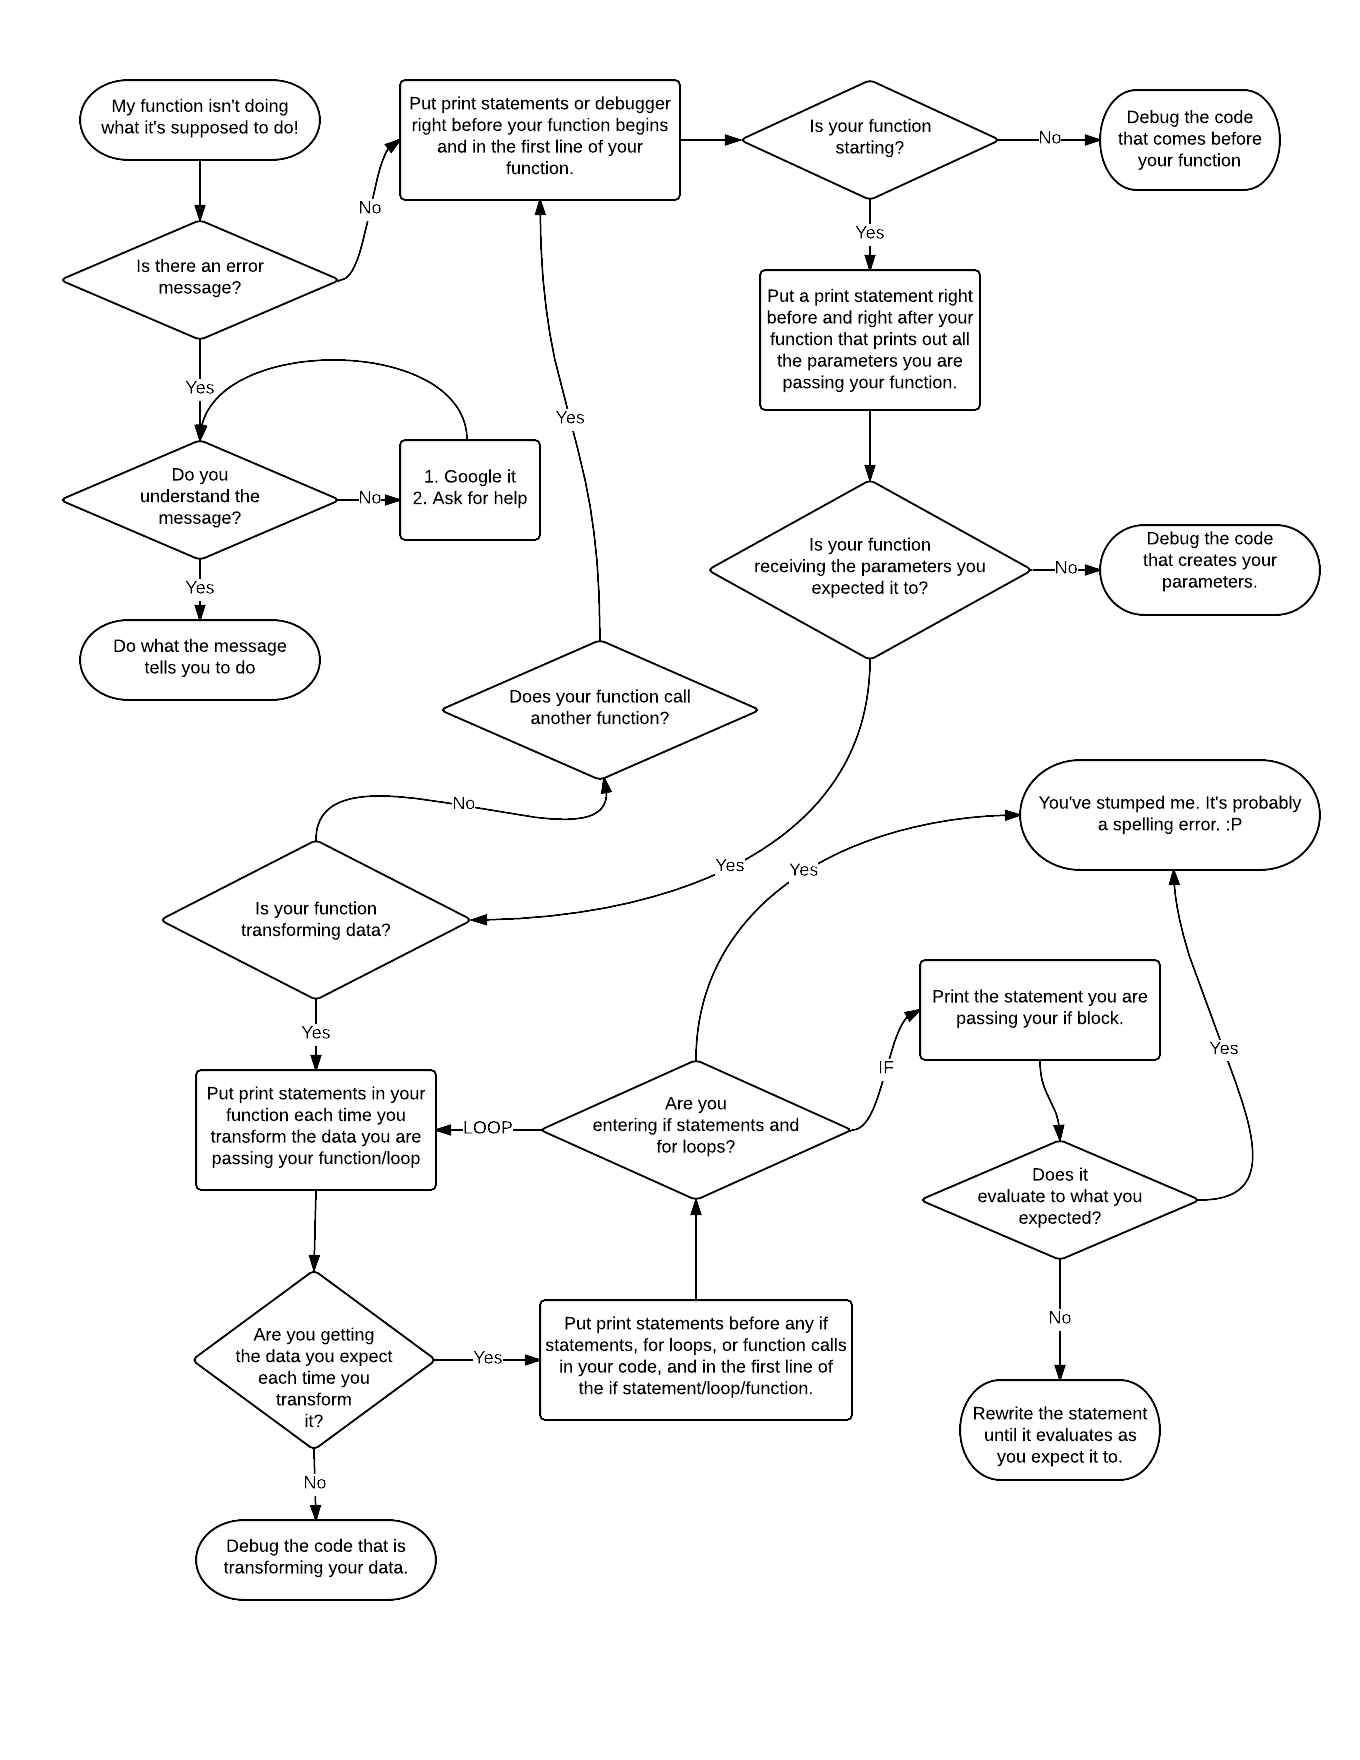
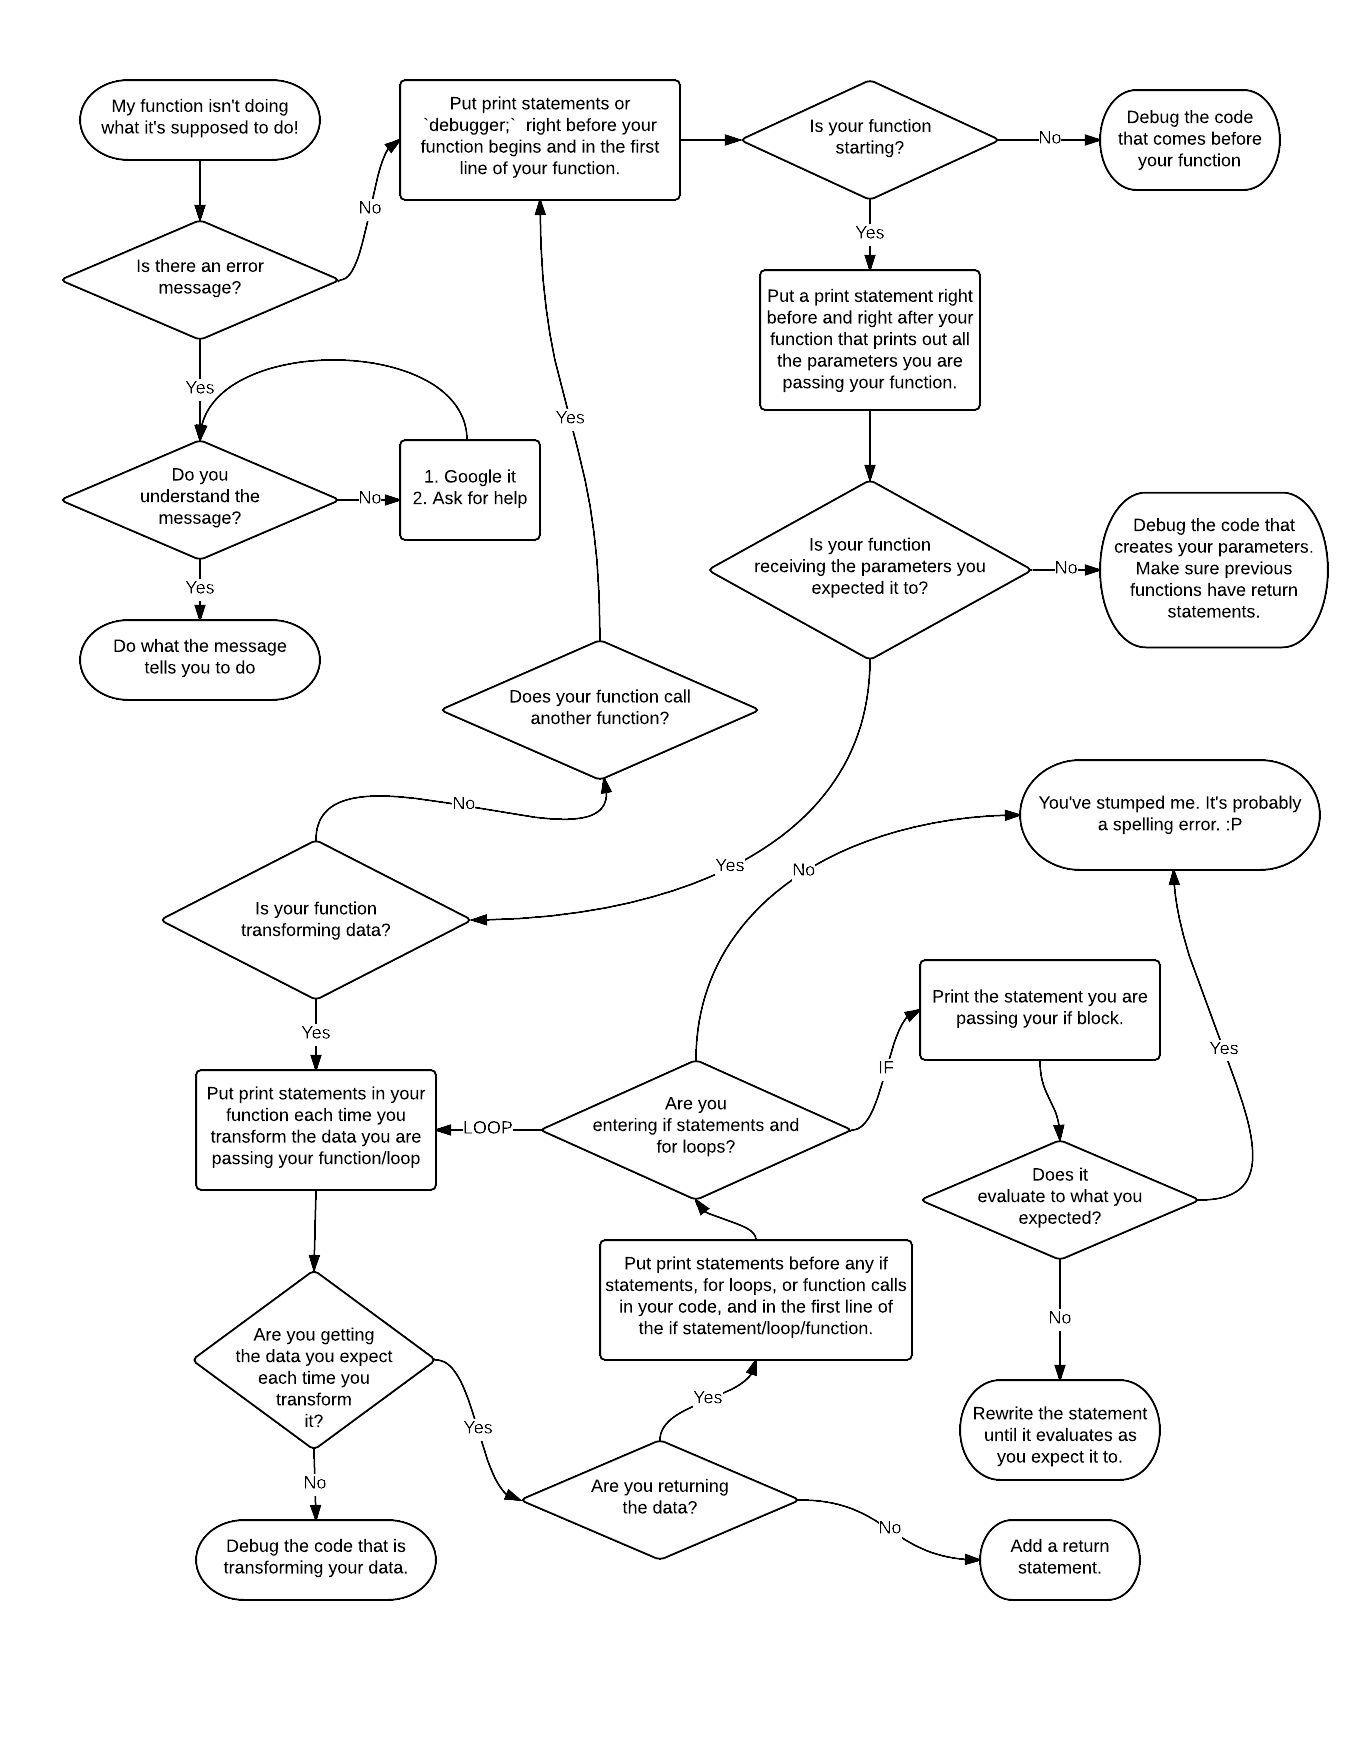
Adds updated flowchart
*Adds link to flowchart in README

diff --git a/README.md b/README.md
@@ -31,6 +31,9 @@ Linters are pretty good at catching syntax errors, so litening to what they tell
 * `render json: <whatever you want to see>`
 * p or puts
 
+##Links
+[Edit this chart on Lucidchart](https://www.lucidchart.com/invitations/accept/38442e0f-3e50-4116-8d21-5084d5b727d7)
+
 
 
 
